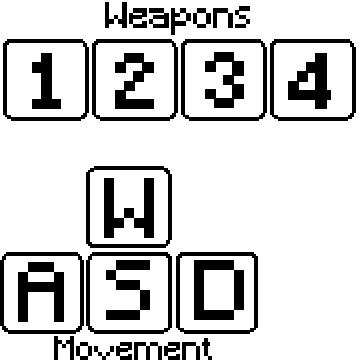
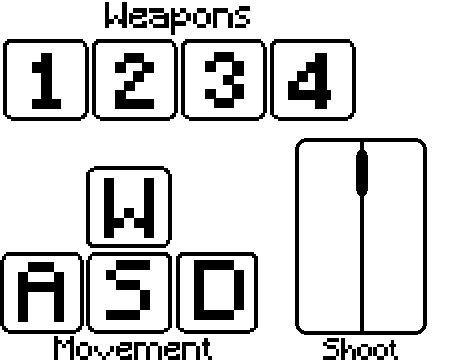
Add files via upload

diff --git a/index.html b/index.html
@@ -64,7 +64,7 @@
 	
 	<h2 data-bs-toggle="collapse" href="#collapseExample" role="button">< Controls ></h2>
     <div class="collapse" id="collapseExample">
-		<img src="assets/images/controls.png" alt="ddr-controls" height="362" width="360"></img>
+		<img src="assets/images/controls.png" alt="ddr-controls" height="362" width="450"></img>
 		<h5 style="padding-top:2px;">Use WASD to move and E to open the weapon weel.</h5>
 	</div>
 	
@@ -76,7 +76,6 @@
 		<h6><img style="image-rendering: auto;" src="assets/images/txtur.gif" alt="credit-Txtur" class="media-image"></img> txtur <span class="badge rounded-pill bg-success" style="color:black;">Textures</span> <span class="badge rounded-pill bg-success" style="color:black;">Game Design</span></h6>
 		<h6><img style="image-rendering: auto;" src="assets/images/tRoboticGamer.png" alt="credit-tRoboticGamer" class="media-image"></img> tRoboticGamer <span class="badge rounded-pill bg-success" style="color:black;">Sound Design</span> <span class="badge rounded-pill bg-success" style="color:black;">Tilemap</span></h6>
 		<h6><img style="image-rendering: auto;" src="assets/images/prince.gif" alt="credit-Prince527" class="media-image"></img> Prince527 <span class="badge rounded-pill bg-success" style="color:black;">Web Design</span> <span class="badge rounded-pill bg-success" style="color:black;">Game Design</span></h6>	
-		<h6><img style="image-rendering: auto;" src="assets/images/janavius.png" alt="credit-Janavius" class="media-image"></img> Janavius <span class="badge rounded-pill bg-success" style="color:black;">Game Design</span></h6>
 		<h5>Special Thanks to CastNormal, Wam25, Cr1ms0n and all those who were there during this process <3</h5>
     </div>
 	
